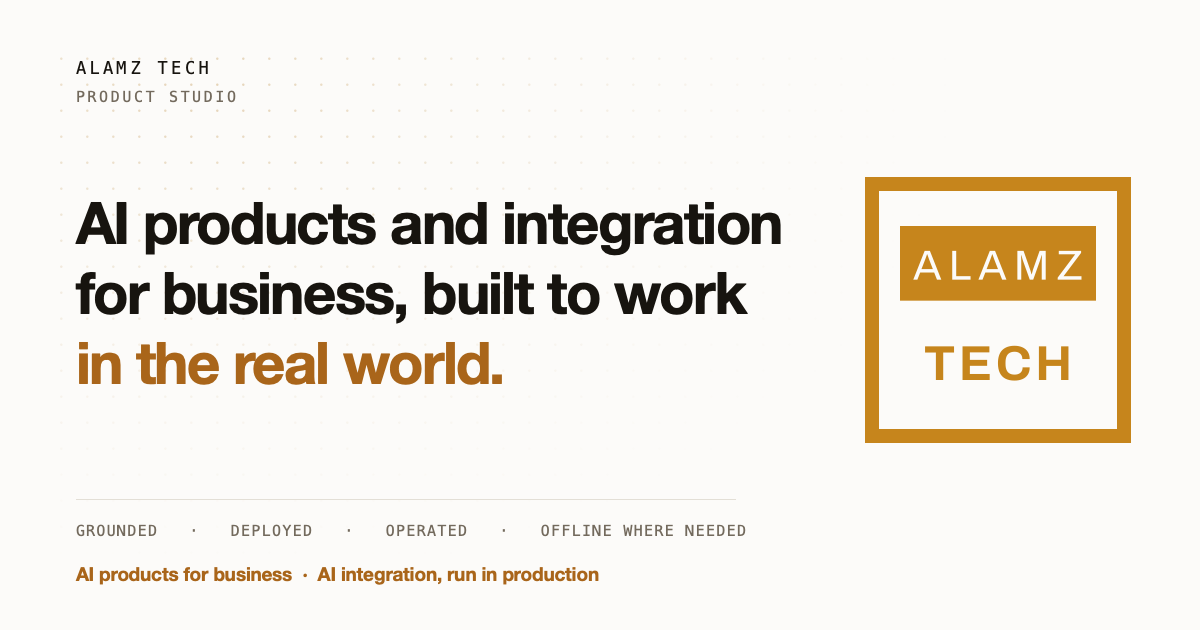
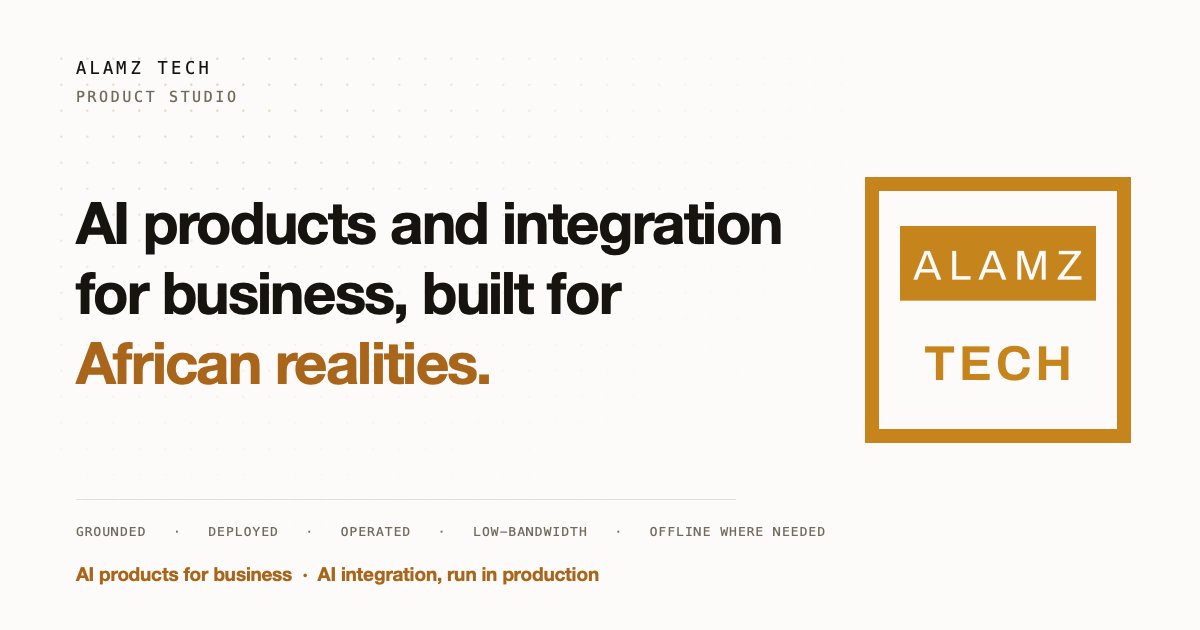
Restore the African-realities positioning
The repositioning edit had softened the geography out to "the real
world", which reads as generic and loses the actual differentiator.
Copy-only change: structure, status system, offline-Engine panel and
theme are untouched.

- Hero: "built for African realities"
- Sub-line, approach, services and principles copy tie the claim to
  concrete conditions — metered bandwidth, unreliable power, modest
  hardware, cloud spend in a moving currency
- The "hard half" paragraph now says why deployment and grounding are
  harder here, which is the edge rather than a caveat on it
- Meta, og:title, og:description, og:image:alt and the OG card updated
- Hero capability strip gains "Bandwidth — costed, not assumed"

Deliberately does NOT reintroduce the back-office / agriculture /
education verticals: African realities is about market conditions, not
sectors. Removed three dead `vertical:` keys left over from that model
and the stale comment that referenced them.

?v= bumped to 3.

diff --git a/assets/js/config.js b/assets/js/config.js
@@ -28,11 +28,12 @@ window.ALAMZ = {
     name: 'Alamz Tech',
     // Shown in the sticky header. Keep it short.
     wordmark: 'Alamz Tech',
-    tagline: 'AI products and integration for business, built to work in the real world.',
+    tagline: 'AI products and integration for business, built for African realities.',
     // The one-liner under the headline in the hero.
     heroSub:
-      'We build AI products for business, and we integrate AI into businesses that already ' +
-      'exist — then deploy it and keep it running in production, not just working in a demo.',
+      'We build AI products for business, and we integrate AI into African businesses that ' +
+      'already run — engineered for the infrastructure, bandwidth and budgets they actually ' +
+      'have, then deployed and kept running in production rather than working once in a demo.',
     // Published on the page, so it will get scraped by spam bots eventually —
     // that is the cost of showing an address at all. Swap to hello@alamztech.com
     // once the domain's mail is set up. Set to '' and the site hides every
@@ -64,22 +65,23 @@ window.ALAMZ = {
   /* ==========================================================================
      HERO — the capability strip in the panel beside the headline.
      --------------------------------------------------------------------------
-     This makes "works in the real world" concrete. It replaced the on-device
-     spec sheet that used to sit here: that sheet described one capability, not
-     the studio, so it moved onto the Offline LLM Engine card where it belongs.
-     Keep these four honest — they are capabilities we actually have.
+     This makes "African realities" concrete rather than a slogan. It replaced
+     the on-device spec sheet that used to sit here: that sheet described one
+     capability, not the studio, so it moved onto the Offline LLM Engine card
+     where it belongs. Keep these honest — they are capabilities we have.
      ====================================================================== */
   hero: {
     capabilitiesLabel: 'How we build',
     capabilities: [
       { k: 'Deployment',  v: 'Shipped to production' },
       { k: 'Grounding',   v: 'RAG on your own data' },
+      { k: 'Bandwidth',   v: 'Costed, not assumed' },
       { k: 'On-device',   v: 'Offline where needed' },
       { k: 'Operations',  v: 'Monitored and maintained' },
     ],
     capabilitiesFoot:
       'Most AI work stalls between a working demo and something a business can rely on. ' +
-      'That gap is the part we do.',
+      'On this continent that gap is wider, and it is the part we do.',
   },
 
   /* ==========================================================================
@@ -214,11 +216,11 @@ window.ALAMZ = {
      ====================================================================== */
   approach: {
     eyebrow: 'The model',
-    heading: 'We build AI products in-house, and we integrate AI into businesses that already exist.',
+    heading: 'We build AI products in-house, and we integrate AI into African businesses that already exist.',
     body: [
       'Alamz Tech is a product studio. We build focused AI products against real operational problems, put them in front of real users, and resource the ones that earn their keep. Alongside that we take integration work: bringing AI into a business that already runs, on its own data and inside its own systems.',
       'The two feed each other. Integration work pays now and shows us where the real problems are; products turn what we learn into something more than one company can use.',
-      'One engineering thread runs through both. Getting a model to answer well is the easy half — the hard half is deployment, grounding it in data that is actually yours, and keeping it running once it matters. That is where most AI work stalls, and it is the part we are built for.',
+      'One engineering thread runs through both. Getting a model to answer well is the easy half — the hard half is deployment, grounding it in data that is actually yours, and keeping it running once it matters. Here that half is harder than it is elsewhere: bandwidth is metered, power and connectivity drop, cloud spend is charged in a currency that moves against you, and there is rarely a platform team standing by. Building for those conditions is the studio\'s edge, not a caveat on it.',
     ],
   },
 
@@ -268,11 +270,15 @@ window.ALAMZ = {
   },
 
   /* ==========================================================================
-     SECTION 3 — FOCUS AREAS
+     SECTION 3 — WHAT WE DO (the two offerings)
      --------------------------------------------------------------------------
-     `state` is deliberately honest and differs per vertical. Grant reviewers
-     read three identical confident cards as marketing; they read an honest
-     maturity gradient as a team that knows where it actually is.
+     Products and Services are kept visibly separate because they are bought,
+     priced and judged differently. `state` is the one-line distinction between
+     them — keep it blunt.
+
+     This replaced an earlier three-sector framing (back-office / agriculture /
+     education). Do not reintroduce sectors here: the market framing lives in
+     "African realities", which is about conditions, not verticals.
      ====================================================================== */
   offerings: {
     eyebrow: 'What we do',
@@ -324,9 +330,10 @@ window.ALAMZ = {
     heading: 'We integrate AI into your business — and then we run it.',
     body:
       'Plenty of people will wire an AI model into your business. Far fewer will still be there when ' +
-      'it has to work on a Monday morning with real data, real load and real consequences. We come ' +
-      'from DevOps and platform engineering, so the deployment half is not an afterthought bolted on ' +
-      'at the end — it is the half we are strongest at.',
+      'it has to work on a Monday morning with real data, real load and real consequences — on the ' +
+      'connection, hardware and budget you actually have rather than the ones the tutorial assumed. ' +
+      'We come from DevOps and platform engineering, so the deployment half is not an afterthought ' +
+      'bolted on at the end. It is the half we are strongest at.',
 
     whatLabel: 'What the work is',
     what: [
@@ -339,15 +346,17 @@ window.ALAMZ = {
 
     whoLabel: 'Who it is for',
     who: [
-      'Businesses that have tried an AI pilot and watched it quietly die before production',
+      'African businesses that have tried an AI pilot and watched it quietly die before production',
       'Teams with real data and real workflows, not a greenfield experiment',
       'Operations where being wrong is expensive, so grounding and traceability matter',
+      'Anyone running on metered bandwidth, unreliable power or a hard cloud budget',
       'Anyone who needs it to keep working after the consultants leave',
     ],
 
     edge:
-      'The differentiator is not the integration — it is that we deploy and operate what we integrate. ' +
-      'Most AI work dies in the gap between a demo that impresses and a system a business can depend on.',
+      'The differentiator is not the integration — it is that we deploy and operate what we integrate, ' +
+      'under conditions most AI vendors have never had to design for. Most AI work dies in the gap ' +
+      'between a demo that impresses and a system a business can depend on. That gap is widest here.',
 
     cta: 'Discuss a project',
   },
@@ -373,7 +382,6 @@ window.ALAMZ = {
       ctaUrl: '',
       ctaLabel: '',
       connectivity: 'none',          // tier id from `connectivity.tiers`
-      vertical: 'Back-office operations',
       body:
         'A reproducible pipeline that takes a multilingual open base model, fine-tunes it for a ' +
         'specific domain, and quantizes it to a single file that runs entirely offline on an ' +
@@ -413,7 +421,6 @@ window.ALAMZ = {
       ctaUrl: '',
       ctaLabel: '',
       connectivity: 'low',           // tier id from `connectivity.tiers`
-      vertical: 'Education',
       body:
         'An AI coach on Telegram that takes someone from zero to certification-ready in cloud and ' +
         'infrastructure roles. Hands-on labs run in free tiers that need no credit card and no ' +
@@ -453,7 +460,6 @@ window.ALAMZ = {
       ctaUrl: '',                          // required only when status is 'live'
       ctaLabel: '',                        // optional label override
       connectivity: 'low',                 // 'none' | 'low' | 'always'
-      vertical: 'Agriculture',             // must match a name in `verticals`
       body: 'Two or three honest sentences about what it does and for whom.',
       note: '',
       facts: ['True fact', 'True fact', 'True fact'],
@@ -476,8 +482,10 @@ window.ALAMZ = {
     body:
       'Almost all the difficulty in business AI sits after the part people demo. Getting a model to ' +
       'give a good answer in a meeting is not the hard problem; making it answer from your data, ' +
-      'survive contact with production, and still be running in six months is. These are the rules ' +
-      'we hold both our own products and our client work to.',
+      'survive contact with production, and still be running in six months is. Most AI tooling is ' +
+      'designed on the assumption of cheap bandwidth, steady power and an open cloud budget — ' +
+      'assumptions that fail here, and usually fail together. These are the rules we hold both our ' +
+      'own products and our client work to.',
     // Applied in this order: each only matters once the one above it holds.
     rules: [
       { rule: 'Ground it in the customer\'s own data',
@@ -485,7 +493,7 @@ window.ALAMZ = {
       { rule: 'Ship it to production, not to a demo',
         because: 'Deployed, monitored, versioned and recoverable. Anything less is a prototype wearing a suit.' },
       { rule: 'Make it survive the conditions it will actually meet',
-        because: 'Thin bandwidth, unreliable power, modest hardware. Where the network cannot be assumed, it runs on-device.' },
+        because: 'Metered bandwidth, unreliable power, modest hardware, cloud spend in a currency that moves. Where the network cannot be assumed, it runs on-device.' },
       { rule: 'Show where the answer came from',
         because: 'When being wrong is expensive, traceability is not a feature — it is the requirement.' },
       { rule: 'Leave it operable by someone else',

diff --git a/index.html b/index.html
@@ -3,7 +3,7 @@
 <head>
 <meta charset="utf-8">
 <meta name="viewport" content="width=device-width, initial-scale=1">
-<title>Alamz Tech — AI products and integration for business</title>
+<title>Alamz Tech — AI products and integration, built for African realities</title>
 
 <!-- ---------------------------------------------------------------------
      LINK PREVIEWS (LinkedIn, WhatsApp, X, Slack)
@@ -28,20 +28,20 @@
      servers and will not resolve a relative path, which is the usual cause of
      a blank preview card. All four move together.
      --------------------------------------------------------------------- -->
-<meta name="description" content="Alamz Tech is a product studio building AI products for business and integrating AI into existing businesses — engineered to run reliably in production, including where infrastructure is thin.">
+<meta name="description" content="Alamz Tech is a product studio building AI products for business and integrating AI into existing African businesses — engineered for unreliable infrastructure, thin bandwidth and tight budgets, then run in production.">
 <!-- Light is the brand ground by default; app.js updates this when the
      visitor uses the header's dark-mode toggle. -->
 <meta name="theme-color" content="#FCFBF9" id="theme-color">
 <link rel="canonical" href="https://alamz-tech.github.io/">
 <meta property="og:type" content="website">
 <meta property="og:site_name" content="Alamz Tech">
-<meta property="og:title" content="Alamz Tech — AI products and integration for business">
-<meta property="og:description" content="We build AI products for business and integrate AI into existing businesses — then deploy and run it in production.">
+<meta property="og:title" content="Alamz Tech — AI products and integration, built for African realities">
+<meta property="og:description" content="We build AI products for business and integrate AI into existing African businesses — engineered for the infrastructure, bandwidth and budgets they actually have, then run in production.">
 <meta property="og:url" content="https://alamz-tech.github.io/">
 <meta property="og:image" content="https://alamz-tech.github.io/assets/og-image.png">
 <meta property="og:image:width" content="1200">
 <meta property="og:image:height" content="630">
-<meta property="og:image:alt" content="Alamz Tech — AI products and integration for business, built to work in the real world.">
+<meta property="og:image:alt" content="Alamz Tech — AI products and integration for business, built for African realities.">
 <meta name="twitter:card" content="summary_large_image">
 <meta name="twitter:image" content="https://alamz-tech.github.io/assets/og-image.png">
 
@@ -49,8 +49,8 @@
      without it a returning visitor can get last deploy's CSS against this
      deploy's HTML for up to ten minutes — a half-broken page.
      BUMP THIS NUMBER on any deploy that changes CSS or JS. -->
-<link rel="icon" href="assets/favicon.svg?v=2" type="image/svg+xml">
-<link rel="stylesheet" href="assets/css/styles.css?v=2">
+<link rel="icon" href="assets/favicon.svg?v=3" type="image/svg+xml">
+<link rel="stylesheet" href="assets/css/styles.css?v=3">
 </head>
 <body>
 
@@ -124,8 +124,8 @@
       <div>
         <p class="hero__tag">Product studio</p>
         <h1 class="hero__title">
-          AI products and integration for business, built to work in the
-          <em>real world</em>.
+          AI products and integration for business, built for
+          <em>African realities</em>.
         </h1>
         <p class="hero__sub" data-bind="brand.heroSub"></p>
         <div class="hero__actions">
@@ -140,9 +140,10 @@
         </div>
       </div>
 
-      <!-- Makes "works in the real world" concrete rather than a slogan. The
-           on-device spec sheet that used to sit here now belongs to the Offline
-           LLM Engine card, where it is correctly scoped to one capability.
+      <!-- Makes "African realities" concrete rather than a slogan — unreliable
+           infrastructure, thin bandwidth, tight budgets. The on-device spec
+           sheet that used to sit here now belongs to the Offline LLM Engine
+           card, where it is correctly scoped to one capability.
            Rows come from config: hero.capabilities. -->
       <aside class="datasheet reveal" aria-label="How we build">
         <div class="datasheet__head">
@@ -365,7 +366,7 @@
 </dialog>
 
 <!-- Keep ?v= in step with the stylesheet above — see the note in <head>. -->
-<script src="assets/js/config.js?v=2"></script>
-<script src="assets/js/app.js?v=2"></script>
+<script src="assets/js/config.js?v=3"></script>
+<script src="assets/js/app.js?v=3"></script>
 </body>
 </html>

diff --git a/assets/js/app.js b/assets/js/app.js
@@ -108,8 +108,6 @@
     });
   })();
 
-  /* ------------------------------------------------------------ verticals */
-
   /* ----------------------------------------------------------- offerings */
 
   (function renderOfferings() {

diff --git a/tools/make-og.py b/tools/make-og.py
@@ -106,8 +106,8 @@ text("PRODUCT STUDIO", 76, 92, MONO, 15, INK_DIM, kern=2.6)
 
 # --- headline -------------------------------------------------------------
 lines = [("AI products and integration", INK),
-         ("for business, built to work", INK),
-         ("in the real world.", BRASS_D)]
+         ("for business, built for", INK),
+         ("African realities.", BRASS_D)]
 y = 200
 for s, col in lines:
     text(s, 76, y, DISPLAY, 58, col, kern=-1.8)
@@ -117,8 +117,8 @@ for s, col in lines:
 LINE.set()
 NSBezierPath.fillRect_(NSMakeRect(76, top(500), 660, 1))
 
-text("GROUNDED   ·   DEPLOYED   ·   OPERATED   ·   OFFLINE WHERE NEEDED",
-     76, 526, MONO, 15, INK_DIM, kern=1.3)
+text("GROUNDED   ·   DEPLOYED   ·   OPERATED   ·   LOW-BANDWIDTH   ·   OFFLINE WHERE NEEDED",
+     76, 526, MONO, 13, INK_DIM, kern=1.0)
 
 text("AI products for business  ·  AI integration, run in production",
      76, 566, DISPLAY, 19, BRASS_D, kern=-0.2)
